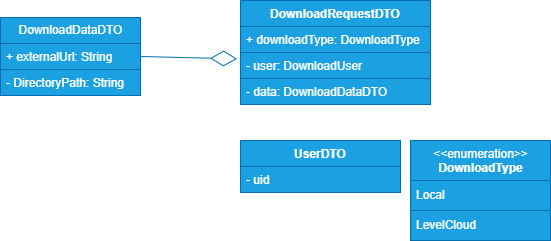
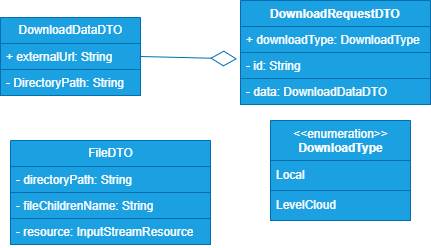
Ya no hay problema con los formatos de los nombres. el problema estaba en el locale del sistema operativo

diff --git a/Microservicios/Spring_project/music/src/main/java/net/ddns/levelcloud/music/music/services/DownloadService.java b/Microservicios/Spring_project/music/src/main/java/net/ddns/levelcloud/music/music/services/DownloadService.java
@@ -11,6 +11,7 @@ import org.springframework.web.server.ResponseStatusException;
 
 import java.io.*;
 import java.net.URLDecoder;
+import java.net.URLEncoder;
 import java.nio.charset.StandardCharsets;
 import java.util.Objects;
 import java.util.regex.Matcher;
@@ -192,7 +193,7 @@ public class DownloadService {
 
             return FileDTO.builder()
                     .directoryPath(root.getAbsolutePath())
-                    .fileChildren(file)
+                    .fileChildrenName(this.encodeFileName(file.getName()))
                     .resource(resource)
                     .build();
 
@@ -226,5 +227,18 @@ public class DownloadService {
 
         throw new RuntimeException("No se pudo eliminar el directorio temporal en el servidor.");
     }
+    //----------- GENERIC
 
+    /**
+     * Codifica el nombre del archivo en UTF-8 y lo convierte en un formato compatible con HTTP.
+     * @param fileName
+     * @return
+     */
+    private String encodeFileName(String fileName) {
+        // Codifica el nombre del archivo en UTF-8 y lo convierte en un formato compatible con HTTP.
+        return URLEncoder.encode(fileName, StandardCharsets.UTF_8)
+                .replaceAll("\\+", "%20") // Reemplaza los "+" con "%20" ya que "+" no es un carácter válido en los nombres de archivo.
+                .replaceAll("%28", "(")    // Reemplaza paréntesis codificados en %28 y %29
+                .replaceAll("%29", ")");
+    }
 }

diff --git a/Microservicios/Spring_project/music/src/main/java/net/ddns/levelcloud/music/music/controllers/download/DownloadController.java b/Microservicios/Spring_project/music/src/main/java/net/ddns/levelcloud/music/music/controllers/download/DownloadController.java
@@ -53,7 +53,7 @@ public class DownloadController {
         FileDTO resource = this.downloadService.upload(id, directoryPath);
 
         return ResponseEntity.ok()
-                .header(HttpHeaders.CONTENT_DISPOSITION, "attachment; filename=" + resource.getFileChildren().getName())
+                .header(HttpHeaders.CONTENT_DISPOSITION, "attachment; filename=" + resource.getFileChildrenName())
                 .contentType(MediaType.APPLICATION_OCTET_STREAM)
                 .body(resource.getResource());
     }

diff --git a/Microservicios/Spring_project/music/src/main/java/net/ddns/levelcloud/music/music/models/DTO/Download/FileDTO.java b/Microservicios/Spring_project/music/src/main/java/net/ddns/levelcloud/music/music/models/DTO/Download/FileDTO.java
@@ -14,6 +14,6 @@ import java.io.File;
 @NoArgsConstructor
 public class FileDTO{
     private String directoryPath;
-    private File fileChildren;
+    private String fileChildrenName;
     private InputStreamResource resource;
 }
